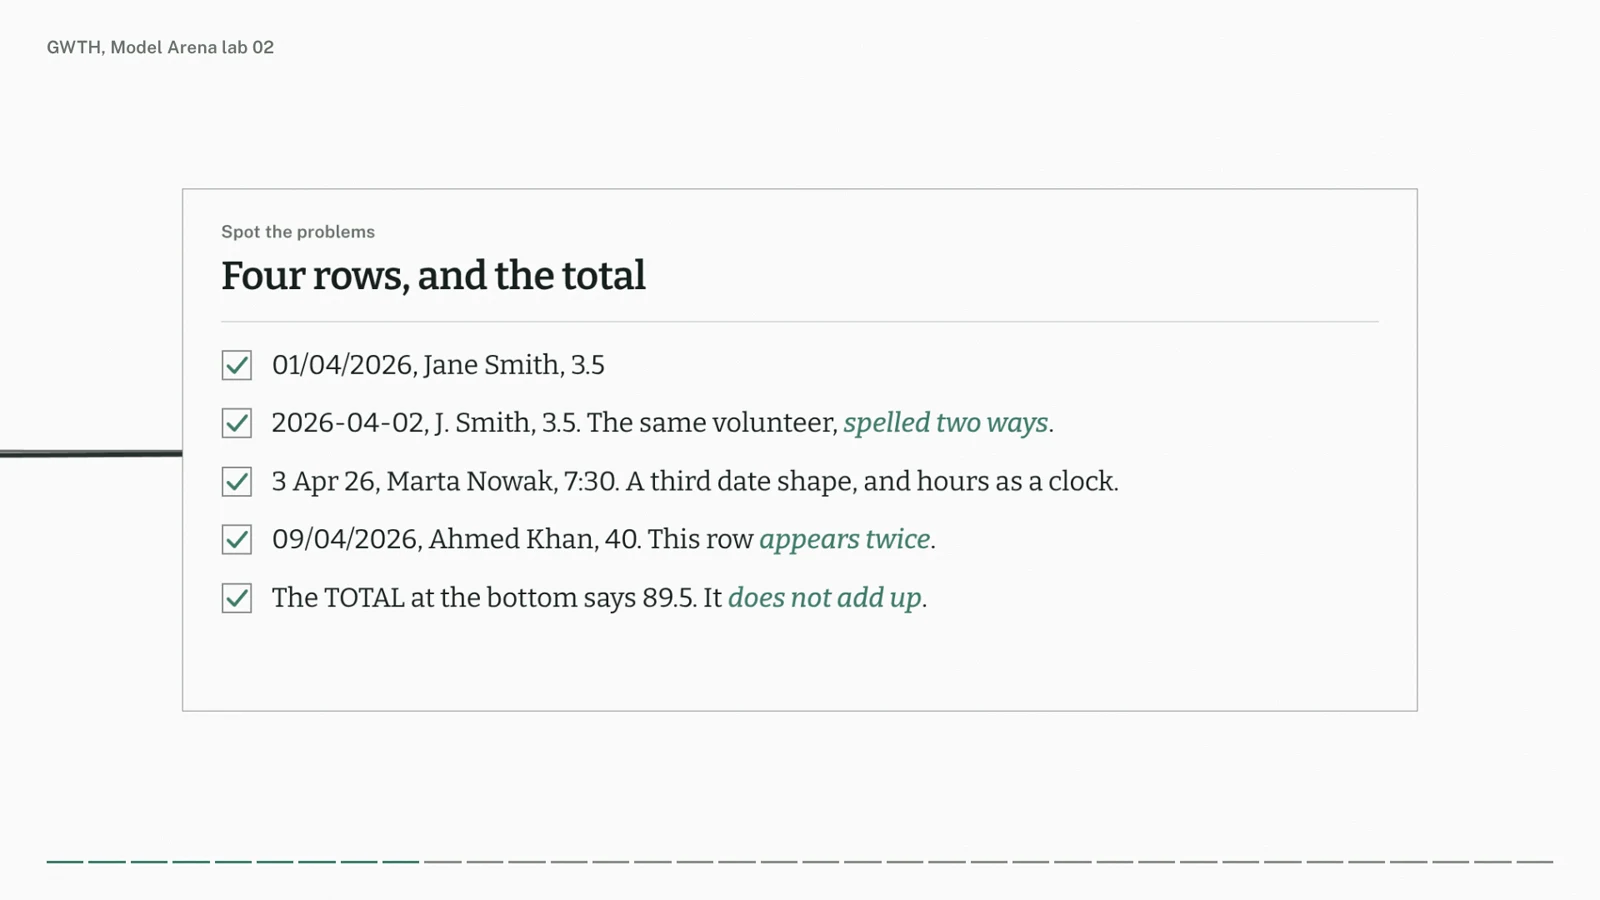
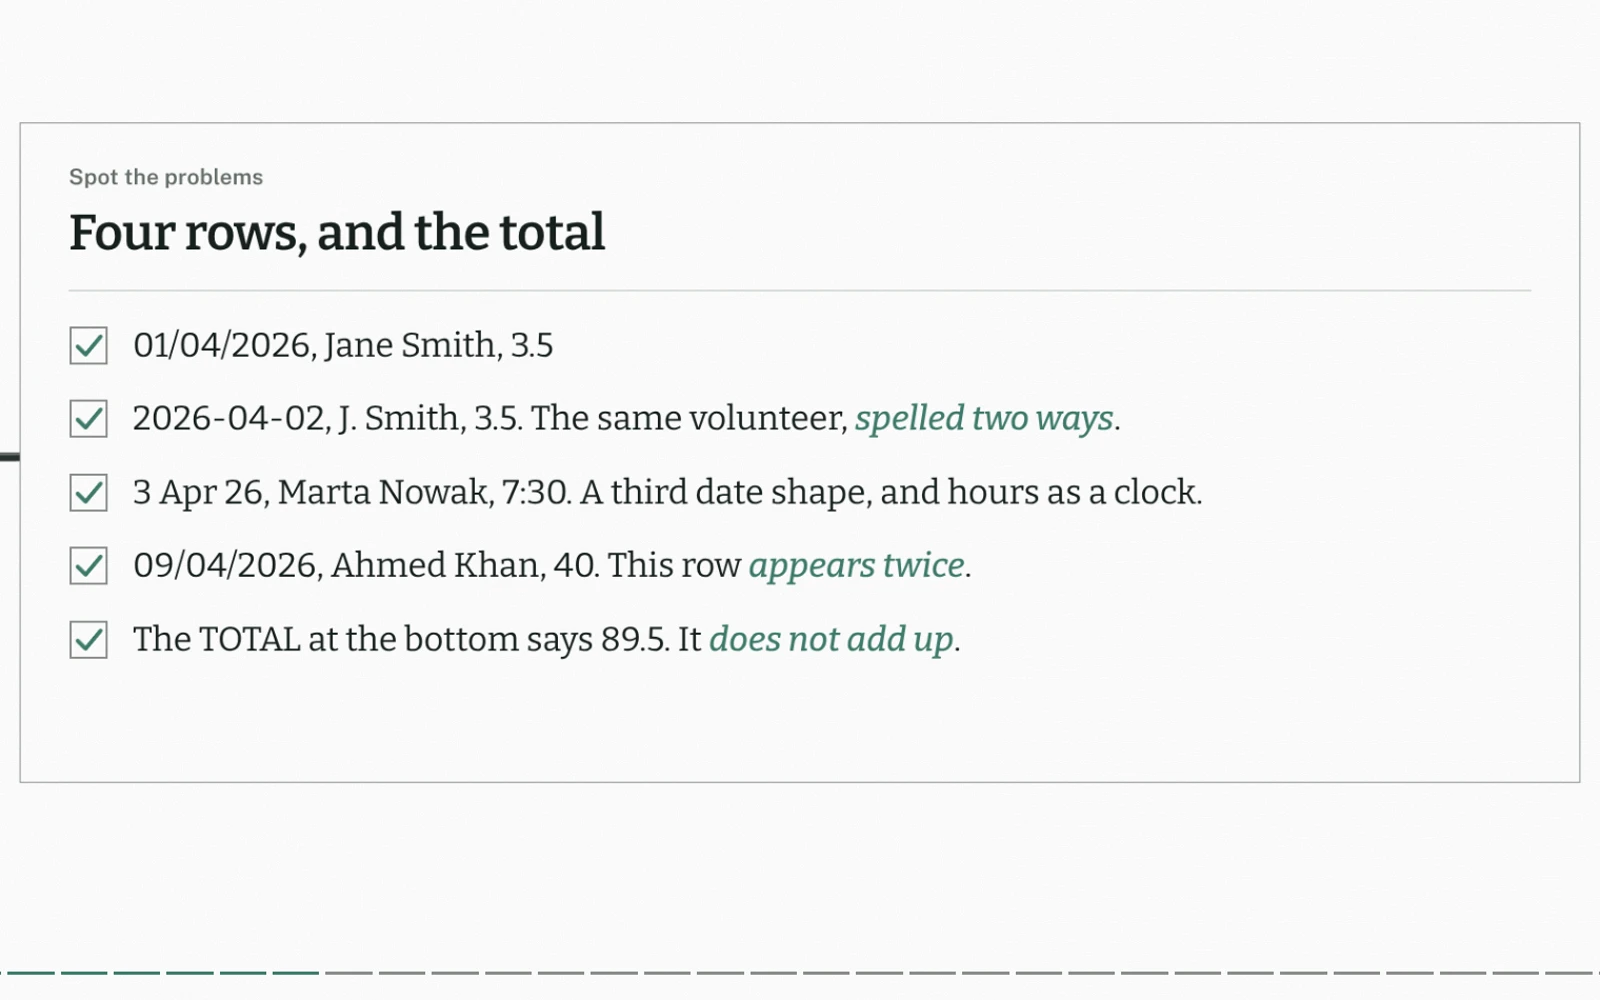
The labs page stops saying no video has been recorded
The section lead under "Live now." said "Video guides are planned for
every lab and none has been recorded yet, which is why no card offers
one to play". That sentence became false the moment the first guide
landed, one card above it. It is now derived from labVideoState, the
same single piece of evidence the cards read, so it says how many of
the live labs have a guide and cannot drift from them again. A test
holds it there.

The poster is also cropped tighter, to the rows themselves rather than
the whole 16:9 frame, because a card thumbnail is about 345px wide and
the full frame put the spreadsheet rows at the size of a hairline. It
is still a real still from the real video, just a closer one.

deploy/shot-lab-video.mjs captures the evidence: both surfaces, both
themes, desktop and phone, plus a probe that seeks the real media to
52 seconds and reports readyState, duration and track count, because a
poster rendering does not prove a video decodes.

Bead: gwth-launch-88z.32.23

diff --git a/src/components/marketing/labs-fde/labs-fde.tsx b/src/components/marketing/labs-fde/labs-fde.tsx
@@ -85,6 +85,11 @@ export function LabsFde({
   archivedArenaLabs,
   legacyArchive,
 }: LabsFdeProps) {
+  // How many live labs genuinely have media. `labVideoState` is the only
+  // evidence any surface accepts, so the section lead cannot drift from the
+  // cards below it.
+  const withVideo = liveLabs.filter((l) => labVideoState(l) === "available")
+    .length
   const archiveRows: ArchiveRow[] = [
     ...archivedArenaLabs.map((lab) => ({
       key: lab.id,
@@ -173,11 +178,20 @@ export function LabsFde({
             </p>
           </div>
 
+          {/*
+            This line states the CURRENT video position, so it is derived from
+            the data rather than written once and left to go stale. It said "none
+            has been recorded yet" until the messy-spreadsheet guide landed
+            (bead gwth-launch-88z.32.23).
+          */}
           <p className={styles.sectionLead}>
-            Each card previews the real material its lab starts from, so you
-            can tell at a glance what the task is. Video guides are planned for
-            every lab and none has been recorded yet, which is why no card
-            offers one to play.
+            Each card previews the real material its lab starts from, so you can
+            tell at a glance what the task is.{" "}
+            {withVideo === 0
+              ? "Video guides are planned for every lab and none has been recorded yet, which is why no card offers one to play."
+              : withVideo === liveLabs.length
+                ? "Every lab has a video guide, and each card shows a still from its own."
+                : `${withVideo} of these ${liveLabs.length} has a video guide, and its card shows a still from it. The rest say so plainly rather than offering something to play.`}
           </p>
 
           {liveLabs.length === 0 ? (

diff --git a/src/components/marketing/labs-fde/labs-fde.test.tsx b/src/components/marketing/labs-fde/labs-fde.test.tsx
@@ -122,6 +122,17 @@ describe("LabsFde live cards", () => {
     }
   })
 
+  it("states the video position from the data, not from a frozen sentence", () => {
+    // The lead said "none has been recorded yet" for as long as that was true,
+    // and would have gone on saying it after the first guide landed.
+    renderIndex()
+    const withVideo = liveLabs.filter((l) => l.video).length
+    expect(withVideo).toBeGreaterThan(0)
+    const lead = screen.getByText(/Each card previews the real material/)
+    expect(lead.textContent).not.toMatch(/none has been recorded/)
+    expect(lead.textContent).toContain(String(withVideo))
+  })
+
   it("gives the messy-spreadsheet lab a real, complete video guide", () => {
     // The pilot (bead gwth-launch-88z.32.23). A lab video ships as a set or it
     // does not ship: a playable source, a poster frame taken from that video,
